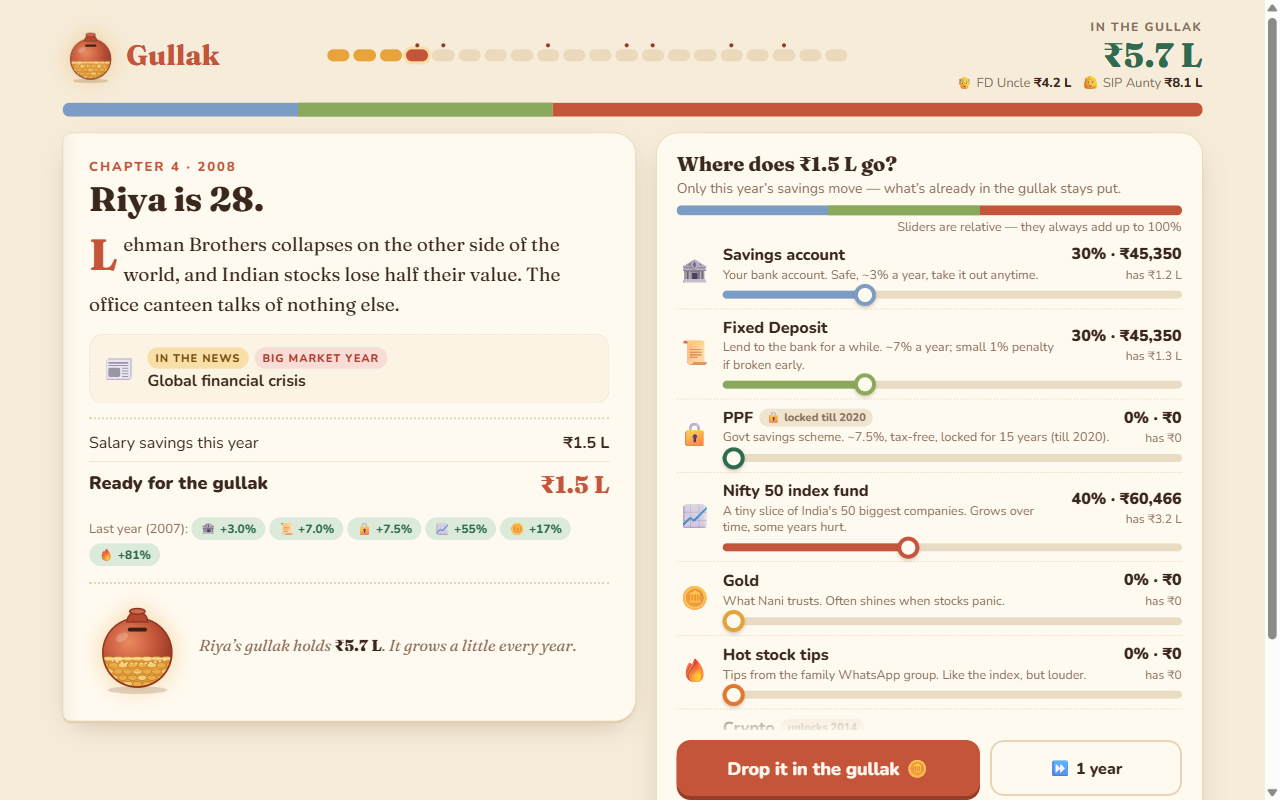
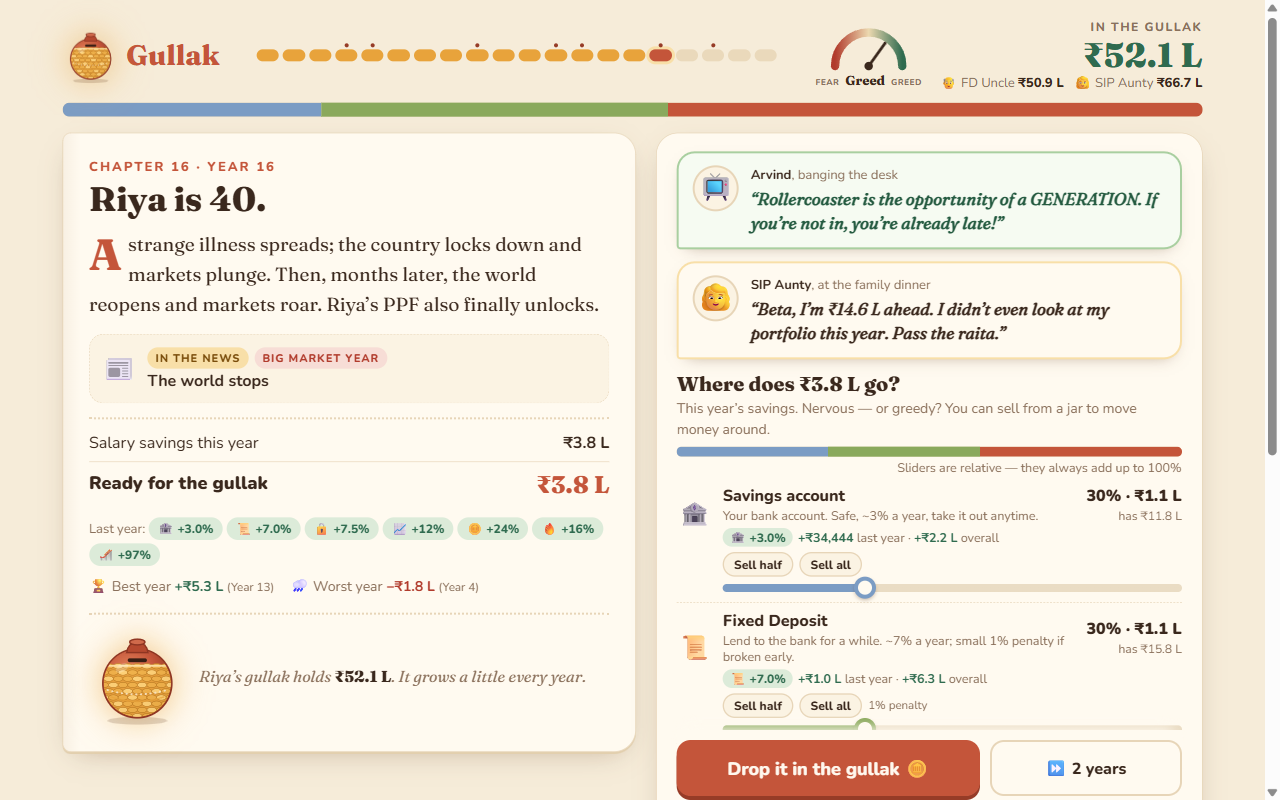
Gullak: storybook game with hidden years, selling, fear/greed cast, takeaways

diff --git a/gullak/ui.js b/gullak/ui.js
@@ -43,6 +43,7 @@
       <rect x="80" y="66" width="40" height="8" rx="4" fill="#3a1f14"/>
       <ellipse class="slotcoin" cx="100" cy="62" rx="9" ry="3.5" fill="#f0b54a" stroke="#b77a1e" opacity="0"/>
       <ellipse cx="68" cy="86" rx="14" ry="8" fill="#fff" opacity=".22" transform="rotate(-30 68 86)"/>
+      <path class="crackline" d="M104 76 L112 98 L94 118 L114 140 L96 162 L104 188" fill="none" stroke="#2a120a" stroke-width="3.5" stroke-linejoin="round" stroke-linecap="round"/>
     </svg>`;
   }
   function mountPot(el, nw) { el.classList.add('pot'); el.innerHTML = potSVG(level(nw)); glow(el, nw); }
@@ -97,16 +98,84 @@
 
   function renderTop() {
     const nw = G.netWorth();
-    $('beads').innerHTML = G.sched.map((s, i) => `<i class="${i < G.round ? 'done' : i === G.round ? 'cur' : ''} ${s.event ? 'ev' : ''}" title="${s.y}"></i>`).join('');
+    $('beads').innerHTML = G.sched.map((s, i) => `<i class="${i < G.round ? 'done' : i === G.round ? 'cur' : ''} ${s.event ? 'ev' : ''}" title="Year ${i + 1}"></i>`).join('');
     const el = $('nw');
     if (shownNW !== nw.me) { countUp(el, shownNW, nw.me, 700); shownNW = nw.me; } else { el.textContent = inr(nw.me); el.classList.toggle('neg', nw.me < 0); }
     $('rivals').innerHTML = `<span>👴 FD Uncle <b>${inr(nw.fd)}</b></span><span>👩 SIP Aunty <b>${inr(nw.sip)}</b></span>`;
     setPot($('miniPot'), nw.me);
+    renderGauge();
     const p = G.me, tot = KEYS.reduce((a, k) => a + p.h[k], 0) + p.debt;
     let bars = ASSETS.filter(a => p.h[a.k] > 0.5).map(a => `<div style="flex-grow:${p.h[a.k] / tot};background:${a.c}" title="${a.n}: ${inr(p.h[a.k])}"></div>`).join('');
     if (p.debt > 0.5) bars += `<div style="flex-grow:${p.debt / tot};background:repeating-linear-gradient(45deg,#b13b2c 0 6px,#d9604f 6px 12px)" title="Credit-card debt: ${inr(p.debt)}"></div>`;
     $('inside').innerHTML = bars;
     $('inside').title = 'What’s inside the gullak';
+  }
+
+  const signed = v => (v < 0 ? '−' : '+') + inr(Math.abs(v));
+  const marketGain = h => KEYS.reduce((a, k) => a + h.pnl[k], 0) - h.interest;
+  function records() {
+    let best = null, worst = null;
+    for (const h of G.history) { const g = marketGain(h); if (!best || g > best.g) best = { g, h }; if (!worst || g < worst.g) worst = { g, h }; }
+    return { best, worst };
+  }
+  // Fear <-> greed: flavour only, driven by last year's index and Rollercoaster returns
+  function mood() {
+    const last = G && G.history[G.history.length - 1];
+    if (!last) return 0;
+    return Math.tanh(1.8 * last.ret.nifty + 0.25 * last.ret.crypto + 0.5 * (last.ret.hot - last.ret.nifty));
+  }
+  function renderGauge() {
+    const m = mood(), ang = m * 80, word = m < -0.5 ? 'Panic' : m < -0.15 ? 'Fear' : m > 0.5 ? 'Mania' : m > 0.15 ? 'Greed' : 'Calm';
+    $('gauge').innerHTML = `<svg viewBox="0 0 120 70" aria-hidden="true">
+      <defs><linearGradient id="gg" x1="0" x2="1"><stop offset="0" stop-color="#b13b2c"/><stop offset=".5" stop-color="#ecd9b0"/><stop offset="1" stop-color="#2f6b4f"/></linearGradient></defs>
+      <path d="M12 62 A48 48 0 0 1 108 62" fill="none" stroke="url(#gg)" stroke-width="12" stroke-linecap="round"/>
+      <g class="needle" style="transform:rotate(${ang}deg)"><line x1="60" y1="62" x2="60" y2="22" stroke="#3a281d" stroke-width="4" stroke-linecap="round"/></g>
+      <circle cx="60" cy="62" r="6" fill="#3a281d"/></svg><div class="gw"><small>Fear</small><b>${word}</b><small>Greed</small></div>`;
+    $('gauge').title = 'The family mood after last year — fear or greed. Just for fun.';
+  }
+
+  // ---------- The cast: dramatic voices, sometimes right, often wrong ----------
+  const CAST = {
+    sharma: { e: '🧔', n: 'Sharma-ji', c: 'senior colleague, 15 years in the market' },
+    arvind: { e: '📺', n: 'Arvind', c: 'TV market expert, loud tie' },
+    kavya: { e: '💼', n: 'Kavya', c: 'batchmate, quit her job to “trade full-time”' },
+    uncle: { e: '📱', n: 'WhatsApp uncle', c: 'family group admin' },
+    sip: { e: '👩', n: 'SIP Aunty', c: 'at the family dinner' },
+    fd: { e: '👴', n: 'FD Uncle', c: 'at the family dinner' },
+  };
+  const FEAR = [
+    ['sharma', 'I’ve seen this before. Dot-com bust all over again. I sold everything at 9:15 this morning. If you’re still holding by Friday… don’t say I didn’t warn you.', 'lowering his voice'],
+    ['arvind', 'This is NOT a dip. This is the beginning of a decade-long winter. Cash is king!', 'sleeves rolled up'],
+    ['sharma', 'My CA called me personally. He’s moving everything to gold. Everything.', 'lowering his voice'],
+    ['kavya', 'I’ve gone 100% cash. {asset} down {pct}? It’s going to zero. Get out while there’s something left.', 'from her trading desk at home'],
+    ['uncle', 'URGENT!!! Forward to all family. Experts say it will fall another 50%. SELL and keep cash at home!!! 🙏🙏', 'forwarded many times'],
+  ];
+  const GREED = [
+    ['kavya', 'I made more in three weeks on {asset} than my entire annual bonus. I’m buying a flat. Cash. Are you seriously still in FDs?', 'showing you her phone'],
+    ['sharma', '{asset} is up {pct}. Even my driver is in. You know what they say: the train is leaving the station.', 'tapping his Bloomberg screen'],
+    ['uncle', '100% sure-shot. My friend’s brother-in-law is on the board. Last chance before it doubles!!! 🚀🚀🚀', 'forwarded many times'],
+    ['arvind', '{asset} is the opportunity of a GENERATION. If you’re not in, you’re already late!', 'banging the desk'],
+  ];
+  function quote(who, line, how, vars) {
+    const c = CAST[who];
+    for (const k in vars || {}) line = line.split('{' + k + '}').join(vars[k]);
+    return { e: c.e, n: c.n, c: how || c.c, t: line, mood: '' };
+  }
+  function voices() {
+    const last = G.history[G.history.length - 1]; if (!last) return [];
+    const out = [], tot = KEYS.reduce((a, k) => a + G.me.h[k], 0) || 1, r = last.r, spin = r + (G.seed % 7);
+    const falling = ASSETS.filter(a => enabled(a.k, r) && last.ret[a.k] <= -0.15 && (G.me.h[a.k] > 1000 || a.k === 'nifty')).sort((a, b) => last.ret[a.k] - last.ret[b.k])[0];
+    if (falling) { const q = FEAR[spin % FEAR.length]; out.push(Object.assign(quote(q[0], q[1], q[2], { asset: A(falling.k).n, pct: Math.round(-last.ret[falling.k] * 100) + '%' }), { mood: 'fear' })); }
+    const hot = ASSETS.filter(a => enabled(a.k, r) && last.ret[a.k] >= 0.4 && G.me.h[a.k] / tot < 0.1).sort((a, b) => last.ret[b.k] - last.ret[a.k])[0];
+    if (hot) { const q = GREED[spin % GREED.length]; out.push(Object.assign(quote(q[0], q[1], q[2], { asset: A(hot.k).n, pct: Math.round(last.ret[hot.k] * 100) + '%' }), { mood: 'greed' })); }
+    const nw = G.netWorth(), gap = nw.sip - nw.me, fgap = nw.fd - nw.me;
+    if (gap > Math.max(20000, nw.me * 0.08)) out.push(Object.assign(quote('sip', `Beta, I’m ${inr(gap)} ahead. I didn’t even look at my portfolio this year. Pass the raita.`), { mood: 'taunt' }));
+    else if (fgap > 20000) out.push(Object.assign(quote('fd', `Seven percent, guaranteed. I’m ${inr(fgap)} ahead of you and I sleep like a baby. Sleep is also a return, beta.`), { mood: 'taunt' }));
+    else if (nw.me > nw.sip && nw.me > nw.fd && G.round > 2) out.push(Object.assign(quote('fd', 'So… very casually… what exactly have you been investing in?', 'suddenly very interested'), { mood: 'taunt' }));
+    return out.slice(0, 2);
+  }
+  function quoteCards() {
+    return voices().map((q, i) => `<figure class="quote ${q.mood}" style="animation-delay:${0.15 + i * 0.25}s"><div class="qav">${q.e}</div><div><figcaption><b>${esc(q.n)}</b>, <span>${esc(q.c)}</span></figcaption><blockquote>“${esc(q.t)}”</blockquote></div></figure>`).join('');
   }
 
   function renderPage() {
@@ -129,9 +198,12 @@
       h += safeOnly ? `<p>Good thing there was a cushion — Savings and FD took the hit, so ${esc(NAME)} didn’t have to sell investments in a hurry.</p></div>`
         : `<p>Without enough cushion in Savings or FD, ${esc(NAME)} had to sell investments — whatever the market was doing.</p></div>`;
     }
+    for (const x of l.sells) h += `<div class="line"><span>You sold ${A(x.k).i} ${A(x.k).n}</span><b class="pos">+${inr(x.proceeds)}${x.pen ? ` <small>(−${inr(x.pen)} penalty)</small>` : ''}</b></div>`;
     h += `<div class="line total"><span>Ready for the gullak</span><span>${inr(G.me.cash)}</span></div></div>`;
     const last = G.history[G.history.length - 1];
-    if (last) h += `<div class="lastyr">Last year (${last.y}): ` + ASSETS.filter(a => enabled(a.k, last.r)).map(a => retChip(a.k, last.ret[a.k])).join('') + `</div>`;
+    if (last) h += `<div class="lastyr">Last year: ` + ASSETS.filter(a => enabled(a.k, last.r)).map(a => retChip(a.k, last.ret[a.k])).join('') + `</div>`;
+    const rec = records();
+    if (rec.best && G.history.length > 1) h += `<div class="records"><span>🏆 Best year <b class="pos">${signed(rec.best.g)}</b> <small>(Year ${rec.best.h.r + 1})</small></span><span>🌧 Worst year <b class="${rec.worst.g < 0 ? 'negc' : 'pos'}">${signed(rec.worst.g)}</b> <small>(Year ${rec.worst.h.r + 1})</small></span></div>`;
     const nwm = G.netWorth().me;
     h += `<div class="shelf"><div id="shelfPot"></div><p>${esc(NAME)}’s gullak holds <b>${inr(nwm)}</b>${G.me.debt > 0.5 ? ` — and a credit-card bill of <b class="negc">${inr(G.me.debt)}</b>` : ''}. ${G.round === 0 ? 'Empty for now. Let’s fill it.' : nwm > G.netWorth().sip ? 'Heavier than SIP Aunty’s!' : 'It grows a little every year.'}</p></div>`;
     $('page').innerHTML = h;
@@ -144,25 +216,29 @@
   function renderJars() {
     const s = G.current(), r = G.round, cash = G.me.cash, ffN = G.ffYears();
     const ffBtn = `<button class="btn ghost" id="ffBtn" ${ffN ? '' : 'disabled'}>${ffN ? `⏩ ${ffN} year${ffN > 1 ? 's' : ''}` : '⏩ Last page'}</button>`;
-    const ffNote = ffN ? `Fast-forward keeps this mix${ffN < 5 && r + ffN < R - 1 ? ` · stops before ${G.sched[r + ffN].y}` : ''}.` : 'No skipping the final year.';
+    const ffNote = ffN ? `Fast-forward keeps this mix and never sells${ffN < 5 && r + ffN < R - 1 ? ` · stops before Year ${r + ffN + 1}` : ''}.` : 'No skipping the final year.';
     if (cash < 1) {
       $('jars').className = 'jars';
-      $('jars').innerHTML = `<div class="waits"><div id="waitPot"></div><h3>${G.me.log.income ? 'Nothing left to save this year' : 'No salary this year — the gullak waits.'}</h3>
+      $('jars').innerHTML = quoteCards() + `<div class="waits"><div id="waitPot"></div><h3>${G.me.log.income ? 'Nothing left to save this year' : 'No salary this year — the gullak waits.'}</h3>
         <p>${G.me.log.income ? 'Life took it all. The gullak sits quietly on the shelf.' : `${esc(NAME)} keeps the lights on and the pot keeps its coins. Better years are coming.`}</p></div>
         <div class="actions"><button class="btn primary" id="goBtn">Turn the page →</button>${ffBtn}</div><div class="ffnote">${ffNote}</div>`;
       mountPot($('waitPot'), G.netWorth().me);
     } else {
       const first = r === 0;
       $('jars').className = 'jars' + (first ? ' coach' : '');
-      $('jars').innerHTML = (first ? `<div class="coachtip">👉 Slide to split this year’s ${inr(cash)} between the jars. Then drop it in the gullak!</div>` : '') +
-        `<h3>Where does ${inr(cash)} go?</h3><p class="sub">Only this year’s savings move — what’s already in the gullak stays put.</p>` +
+      $('jars').innerHTML = quoteCards() + (first ? `<div class="coachtip">👉 Slide to split this year’s ${inr(cash)} between the jars. Then drop it in the gullak!</div>` : '') +
+        `<h3>Where does ${inr(cash)} go?</h3><p class="sub">This year’s savings${G.me.log.sells.length ? ' plus what you sold' : ''}. Nervous — or greedy? You can sell from a jar to move money around.</p>` +
         `<div class="mixbar" id="mixbar"></div><div class="sumhint" id="sumhint"></div>` +
         ASSETS.map(a => {
-          const on = enabled(a.k, r);
-          const lock = !on ? `<span class="lock">unlocks 2014</span>` : a.k === 'ppf' ? `<span class="lock">${r >= PPF_R ? '🔓 unlocked' : '🔒 locked till 2020'}</span>` : '';
+          const on = enabled(a.k, r), hold = G.me.h[a.k], last = G.history[G.history.length - 1];
+          const lock = !on ? `<span class="lock">unlocks Year 10</span>` : a.k === 'ppf' ? `<span class="lock">${r >= PPF_R ? '🔓 unlocked' : '🔒 locked till Year 16'}</span>` : '';
+          const overall = hold - G.me.contrib[a.k];
+          const perf = hold > 0.5 && last && enabled(a.k, last.r) ? `<div class="perf">${retChip(a.k, last.ret[a.k])} <b class="${last.pnl[a.k] < 0 ? 'negc' : 'pos'}">${signed(last.pnl[a.k])}</b> last year · <b class="${overall < 0 ? 'negc' : 'pos'}">${signed(overall)}</b> overall</div>` : '';
+          const sell = hold > 0.5 ? (G.canSell(a.k) ? `<div class="sells"><button class="sellbtn" data-sell="${a.k}" data-f="0.5">Sell half</button><button class="sellbtn" data-sell="${a.k}" data-f="1">Sell all</button>${a.k === 'fd' ? '<small>1% penalty</small>' : ''}</div>` : `<div class="sells"><small>🔒 can’t sell yet</small></div>`) : '';
           return `<div class="asset ${on ? '' : 'off'}" style="--c:${a.c}"><div class="ico">${a.i}</div>
             <div><div class="nm" title="${esc(a.f)}">${a.n} ${lock}</div><div class="why">${esc(a.f)}</div></div>
-            <div><div class="amt" id="amt-${a.k}">—</div><div class="hold">has ${inr(G.me.h[a.k])}</div></div>
+            <div><div class="amt" id="amt-${a.k}">—</div><div class="hold">has ${inr(hold)}</div></div>
+            ${perf}${sell}
             <input type="range" min="0" max="100" step="5" value="${on ? G.alloc[a.k] || 0 : 0}" style="--p:${on ? G.alloc[a.k] || 0 : 0}%" data-k="${a.k}" ${on ? '' : 'disabled'} aria-label="${a.n} share"></div>`;
         }).join('') +
         `<div class="actions"><button class="btn primary" id="goBtn">Drop it in the gullak 🪙</button>${ffBtn}</div><div class="ffnote">${ffNote}</div>`;
@@ -171,6 +247,11 @@
       });
       updateAmts();
     }
+    $('jars').querySelectorAll('[data-sell]').forEach(b => b.onclick = () => {
+      const x = G.sell(b.dataset.sell, +b.dataset.f); if (!x) return;
+      tone([660, 520], 0.08, 'triangle');
+      const y = window.scrollY; renderTop(); renderPage(); renderJars(); window.scrollTo(0, y);
+    });
     $('goBtn').onclick = () => invest();
     $('ffBtn').onclick = () => fastForward();
   }
@@ -201,20 +282,35 @@
   }
 
   function showReveal(rec) {
-    const up = rec.nwAfter - rec.nwBefore;
-    const held = ASSETS.filter(a => enabled(a.k, rec.r) && (G.me.h[a.k] > 0.5 || rec.shares[a.k] > 0));
-    $('sheet').innerHTML = `<div class="kicker">The end of ${rec.y}</div><h2>${esc(NAME)}’s gullak, a year older</h2>
-      <div class="reveal-top"><div id="revPot"></div><div><div class="bignum" id="revNum">${inr(rec.nwBefore)}</div>
-      <div class="delta ${up < 0 ? 'negc' : 'pos'}">${up < 0 ? '−' : '+'}${inr(Math.abs(up))} this year</div></div></div>
-      <div class="chips">${(held.length ? held : ASSETS.filter(a => enabled(a.k, rec.r))).map((a, i) => `<span class="chip ${rec.ret[a.k] > 0.001 ? 'up' : rec.ret[a.k] < -0.001 ? 'dn' : 'flat'}" style="animation-delay:${0.35 + i * 0.12}s">${a.i} ${a.n} ${pct(rec.ret[a.k])}</span>`).join('')}</div>
+    const up = rec.nwAfter - rec.nwBefore, gain = marketGain(rec), r = records();
+    const isBest = r.best && r.best.h === rec && G.history.length > 1 && gain > 0, isWorst = r.worst && r.worst.h === rec && G.history.length > 1 && gain < 0;
+    const held = ASSETS.filter(a => enabled(a.k, rec.r) && (Math.abs(rec.pnl[a.k]) > 0.5 || rec.shares[a.k] > 0));
+    const rows = held.map((a, i) => {
+      const overall = G.me.h[a.k] - G.me.contrib[a.k];
+      return `<div class="rrow" style="animation-delay:${0.45 + i * 0.12}s"><span>${a.i} ${a.n}</span>${retChip(a.k, rec.ret[a.k])}<b class="${rec.pnl[a.k] < 0 ? 'negc' : 'pos'}">${signed(rec.pnl[a.k])}</b><small>${signed(overall)} overall</small></div>`;
+    }).join('');
+    $('sheet').className = 'sheet ' + (gain < 0 ? 'loss' : 'win');
+    $('sheet').innerHTML = `<div class="kicker">The end of Year ${rec.r + 1}</div>
+      <div class="headline ${gain < 0 ? 'negc' : 'pos'}">${signed(gain)} this year ${gain < 0 ? '😱' : '🎉'}</div>
+      <div class="subhead">${gain < 0 ? 'The markets took a bite out of the gullak.' : 'The markets were kind to the gullak.'}${isBest ? ' <span class="tag big" style="background:#dcebd9;color:#2f6b4f">New best year!</span>' : ''}${isWorst ? ' <span class="tag big">New worst year</span>' : ''}</div>
+      <div class="reveal-top"><div id="revPot"></div><div><small>In the gullak now</small><div class="bignum" id="revNum">${inr(rec.nwBefore)}</div>
+      <div class="delta">${signed(up)} since last year, after adding ${inr(rec.invested)}</div></div></div>
+      <div class="rtable">${rows || '<p class="sub">Nothing invested yet.</p>'}</div>
       ${rec.interest > 1 ? `<div class="forced" style="margin-top:0"><b>💳 Credit-card interest: −${inr(rec.interest)}</b></div>` : ''}
       <div class="rivalline">👴 FD Uncle ${inr(rec.fdAfter)} · 👩 SIP Aunty ${inr(rec.sipAfter)}</div>
       <button class="btn primary" id="contBtn">${G.done ? 'Break the gullak 🔨' : `Turn to chapter ${rec.r + 2} →`}</button>`;
     $('modal').hidden = false;
     mountPot($('revPot'), rec.nwBefore);
+    if (gain < 0) { sad(); document.body.classList.remove('ouch'); void document.body.offsetWidth; document.body.classList.add('ouch'); setTimeout(() => $('revPot').classList.add('cracked'), 300); }
+    else { coinShower($('sheet'), Math.min(28, 8 + Math.round(Math.log10(1 + gain / 10000) * 6))); }
     setTimeout(() => { setPot($('revPot'), rec.nwAfter, true); countUp($('revNum'), rec.nwBefore, rec.nwAfter, 1100); }, 250);
     $('contBtn').onclick = () => afterTurn(false);
     $('contBtn').focus({ preventScroll: true });
+  }
+  function coinShower(host, n) {
+    const box = document.createElement('div'); box.className = 'shower';
+    box.innerHTML = Array.from({ length: n }, (_, i) => `<i style="left:${(Math.random() * 96).toFixed(1)}%;--d:${(Math.random() * 0.6).toFixed(2)}s;--t:${(0.9 + Math.random() * 0.7).toFixed(2)}s"></i>`).join('');
+    host.appendChild(box); setTimeout(() => box.remove(), 2600);
   }
 
   function fastForward(quiet) {
@@ -222,17 +318,18 @@
     const recs = G.ff(Object.assign({}, G.alloc));
     if (quiet) { afterTurn(true); return recs; }
     busy = true; clink();
+    $('sheet').className = 'sheet';
     const a = recs[0], b = recs[recs.length - 1], up = b.nwAfter - a.nwBefore, nxt = G.current();
-    $('sheet').innerHTML = `<div class="kicker">Fast-forward · ${a.y}${recs.length > 1 ? '–' + b.y : ''}</div>
+    $('sheet').innerHTML = `<div class="kicker">Fast-forward · Year ${a.r + 1}${recs.length > 1 ? '–' + (b.r + 1) : ''}</div>
       <h2>${recs.length > 1 ? `${recs.length} years fly by.` : 'A year flies by.'} ${esc(NAME)} is now ${nxt.age}.</h2>
-      ${nxt.event ? `<div class="stopnote">⏸ Stopping here — something big is about to happen in <b>${nxt.y}</b>.</div>` : ''}
+      ${nxt.event ? `<div class="stopnote">⏸ Stopping here — something big is about to happen. Better be at the wheel for this one.</div>` : ''}
       <ul class="recap">${recs.map(r => {
-        const d = r.nwAfter - r.nwBefore, f = r.log.sales.length || r.log.newDebt;
-        return `<li><span class="yr">${r.y}</span><span>${esc(r.news[0])}</span><span class="d ${d < 0 ? 'negc' : 'pos'}">${d < 0 ? '−' : '+'}${inr(Math.abs(d))}</span>
+        const d = marketGain(r), f = r.log.sales.length || r.log.newDebt;
+        return `<li><span class="yr">Y${r.r + 1}</span><span>${esc(r.news[0])}</span><span class="d ${d < 0 ? 'negc' : 'pos'}">${d < 0 ? '−' : '+'}${inr(Math.abs(d))}</span>
           <span class="ev">${r.life ? `${r.life.e} ${esc(r.life.t)}` : 'A quiet year at home.'}${f ? ' · <b class="negc">🚨 forced sale</b>' : ''}</span></li>`;
       }).join('')}</ul>
       <div class="reveal-top"><div id="revPot"></div><div><small>In the gullak</small><div class="bignum" id="revNum">${inr(a.nwBefore)}</div>
-      <div class="delta ${up < 0 ? 'negc' : 'pos'}">${up < 0 ? '−' : '+'}${inr(Math.abs(up))} over ${recs.length} year${recs.length > 1 ? 's' : ''}</div></div></div>
+      <div class="delta ${up < 0 ? 'negc' : 'pos'}">${signed(up)} over ${recs.length} year${recs.length > 1 ? 's' : ''} (with savings)</div></div></div>
       <div class="rivalline">👴 FD Uncle ${inr(b.fdAfter)} · 👩 SIP Aunty ${inr(b.sipAfter)}</div>
       <button class="btn primary" id="contBtn">Read chapter ${nxt.r + 1} →</button>`;
     $('modal').hidden = false;
@@ -261,6 +358,8 @@
     const res = [{ n: NAME, e: '😊', v: nw.me, me: 1 }, { n: 'FD Uncle', e: '👴', v: nw.fd }, { n: 'SIP Aunty', e: '👩', v: nw.sip }].sort((a, b) => b.v - a.v);
     const rank = res.findIndex(x => x.me) + 1;
     $('endTitle').textContent = `${NAME} is 45. Time to break the gullak.`;
+    $('yearsReveal').innerHTML = `<b>Surprise: you just lived through 2005–2024 🇮🇳</b> — real Indian market history. The Rollercoaster was <b>Bitcoin</b>.` +
+      `<ul>${G.sched.filter(s => s.event || s.y === 2014).map(s => `<li><span>Year ${s.r + 1} = ${s.y}</span> ${esc(s.news[2])}</li>`).join('')}</ul>`;
     $('verdict').textContent = rank === 1 ? `Out spills ${inr(nw.me)} — more than FD Uncle and SIP Aunty. The family WhatsApp group is speechless.`
       : rank === 2 ? `Out spills ${inr(nw.me)}. One relative beaten, one to go — Diwali dinner will be lively.`
       : `Out spills ${inr(nw.me)}. Even FD Uncle did better… he will mention this at every family dinner.`;

diff --git a/gullak/style.css b/gullak/style.css
@@ -226,3 +226,64 @@ body{margin:0;min-height:100vh;color:var(--ink);font:16px/1.5 var(--sans);
 .shelf p{margin:0;font:italic 16px/1.45 var(--serif);color:var(--mut)}
 .shelf b{font-style:normal;color:var(--ink)}
 .title{min-height:calc(100vh - 50px)}
+
+/* ---------- Fear / greed, quotes, P&L ---------- */
+.top{grid-template-columns:auto 1fr auto auto}
+.gauge{display:flex;flex-direction:column;align-items:center;width:110px}
+.gauge svg{width:84px;display:block}
+.gauge .needle{transform-origin:60px 62px;transition:transform 1.2s cubic-bezier(.3,1.6,.5,1)}
+.gauge .gw{display:flex;gap:6px;align-items:baseline;font-size:10px;color:var(--mut);text-transform:uppercase;letter-spacing:.5px;font-weight:800}
+.gauge .gw b{font:800 13px var(--serif);color:var(--ink);text-transform:none;letter-spacing:0}
+.quote{margin:0 0 12px;display:flex;gap:12px;align-items:flex-start;background:#fff;border:2px solid var(--line);border-radius:18px 18px 18px 4px;padding:12px 14px;box-shadow:0 6px 16px -10px rgba(90,50,20,.5);opacity:0;transform:translateY(10px) scale(.97);animation:pop .45s cubic-bezier(.2,1.4,.5,1) forwards}
+@keyframes pop{to{opacity:1;transform:none}}
+.quote.fear{border-color:#e4a497;background:#fff6f3}
+.quote.greed{border-color:#a9cfa0;background:#f6fbf2}
+.quote.taunt{border-color:var(--mari-l);background:#fffaf0}
+.qav{font-size:28px;width:46px;height:46px;flex:none;border-radius:50%;display:grid;place-items:center;background:var(--paper3);border:2px solid var(--line)}
+.quote figcaption{font-size:13px;color:var(--mut)}
+.quote figcaption b{color:var(--ink)}
+.quote blockquote{margin:3px 0 0;font:italic 600 17px/1.4 var(--serif);color:var(--ink)}
+.quote.fear blockquote{color:#7d2a1e}
+.quote.greed blockquote{color:#245a40}
+.perf{grid-column:2/4;font-size:12.5px;color:var(--mut);margin-top:3px}
+.perf .chip{margin:0 2px 0 0;padding:1px 7px}
+.sells{grid-column:2/4;display:flex;gap:6px;align-items:center;margin-top:5px}
+.sellbtn{font:800 12px var(--sans);border:1.5px solid var(--line);background:var(--paper3);color:var(--ink);border-radius:99px;padding:3px 10px;cursor:pointer}
+.sellbtn:hover{border-color:var(--red);color:var(--red)}
+.sells small{color:var(--mut);font-size:11.5px}
+.records{display:flex;gap:6px 16px;flex-wrap:wrap;font-size:14px;margin-top:10px;color:var(--mut)}
+.records b{font-variant-numeric:tabular-nums}
+.headline{font:800 46px/1.05 var(--serif);margin:4px 0 2px;font-variant-numeric:tabular-nums;animation:thump .6s cubic-bezier(.2,1.6,.4,1)}
+@keyframes thump{from{transform:scale(.6);opacity:0}}
+.subhead{color:var(--mut);margin-bottom:10px}
+.sheet{position:relative;overflow-x:hidden}
+.sheet.loss{animation:rise .35s cubic-bezier(.2,1.3,.5,1),shake2 .5s .35s}
+@keyframes shake2{20%{transform:translateX(-8px)}40%{transform:translateX(7px)}60%{transform:translateX(-5px)}80%{transform:translateX(3px)}}
+.sheet.win{box-shadow:0 0 0 4px var(--mari-l),0 30px 60px -20px rgba(60,30,10,.6)}
+body.ouch::after{content:"";position:fixed;inset:0;pointer-events:none;z-index:30;box-shadow:inset 0 0 160px 40px rgba(177,59,44,.75);animation:ouch 1.1s forwards}
+@keyframes ouch{to{opacity:0}}
+.pot .crackline{opacity:0;stroke-dasharray:200;stroke-dashoffset:200;transition:opacity .1s,stroke-dashoffset .5s ease-out}
+.pot.cracked .crackline{opacity:1;stroke-dashoffset:0}
+.rtable{display:flex;flex-direction:column;gap:2px;margin:12px 0}
+.rrow{display:grid;grid-template-columns:1fr auto auto;gap:2px 10px;align-items:center;padding:5px 0;border-bottom:1px dashed var(--line);opacity:0;animation:chipin .35s forwards}
+.rrow b{font-variant-numeric:tabular-nums;text-align:right;font-size:17px}
+.rrow small{grid-column:1/-1;color:var(--mut);font-size:12px;margin-top:-2px}
+.shower{position:absolute;inset:0;pointer-events:none;overflow:hidden;border-radius:24px}
+.shower i{position:absolute;top:-30px;width:18px;height:18px;border-radius:50%;background:radial-gradient(circle at 35% 35%,#ffe9a6,#e8a33b 55%,#b9771c);box-shadow:inset 0 0 0 2px #c98a2a;animation:rain var(--t) var(--d) ease-in forwards}
+@keyframes rain{to{transform:translateY(720px) rotate(540deg)}}
+.yearsreveal{margin-top:12px;background:var(--paper2);border:1px solid var(--line);border-radius:16px;padding:10px 14px;font-size:15px;text-align:left}
+.yearsreveal ul{margin:6px 0 0;padding:0;list-style:none;display:grid;grid-template-columns:repeat(auto-fill,minmax(230px,1fr));gap:2px 14px;font-size:13.5px}
+.yearsreveal li span{font-weight:800;color:var(--terra)}
+@media (max-width:900px){.top{grid-template-columns:auto 1fr auto}.gauge{grid-row:1;grid-column:2;justify-self:center;width:90px}}
+@media (max-width:560px){.headline{font-size:34px}.quote blockquote{font-size:15.5px}.gauge svg{width:64px}.top{grid-template-columns:auto auto 1fr}.gauge{justify-self:start}}
+@media (max-width:560px){
+  .top{grid-template-columns:1fr auto;gap:6px 10px}
+  .brand{grid-row:1;grid-column:1}
+  .gauge{grid-row:1;grid-column:2;width:auto}
+  .worth{grid-row:2;grid-column:1/-1;text-align:left;display:flex;flex-wrap:wrap;align-items:baseline;gap:2px 10px}
+  .worth small{width:100%}
+  .rivals{justify-content:flex-start}
+  .beads{grid-row:3}
+  .actions .primary{flex:2 1 150px;font-size:16px;padding:13px 10px}
+  .actions .ghost{flex:1 1 90px;padding:12px 8px}
+}

diff --git a/gullak/index.html b/gullak/index.html
@@ -21,8 +21,8 @@
     <h1>Gullak</h1>
     <p class="tagline">A little story about one life, one clay pot, and twenty years of choices.</p>
     <ol class="howto">
-      <li><b>Every page is a year</b> of your life, 2005 to 2024 — age 25 to 45.</li>
-      <li><b>Split each year’s savings</b> between the jars with the sliders. Real market history happens.</li>
+      <li><b>Every page is a year</b> of your life, from 25 to 45. The markets follow real Indian history — but we won’t tell you which years.</li>
+      <li><b>Split each year’s savings</b> between the jars. Sell when you’re scared, buy when you’re greedy — if you dare.</li>
       <li><b>Life will surprise you.</b> Keep a cushion — and try to beat FD Uncle and SIP Aunty.</li>
     </ol>
     <form id="nameForm" class="nameform" autocomplete="off">
@@ -40,6 +40,7 @@
   <header class="top">
     <div class="brand"><span class="mini-pot" id="miniPot"></span><span class="logo">Gullak</span></div>
     <div class="beads" id="beads" aria-label="Progress"></div>
+    <div class="gauge" id="gauge"></div>
     <div class="worth">
       <small>In the gullak</small>
       <b id="nw">₹0</b>
@@ -58,9 +59,10 @@
   <div class="end-hero">
     <div class="breakstage" id="breakStage"></div>
     <div class="end-head">
-      <div class="kicker">The last page · 2024</div>
+      <div class="kicker">The last page · Year 20</div>
       <h2 id="endTitle">The gullak is full. Time to break it.</h2>
       <p class="verdict" id="verdict"></p>
+      <div class="yearsreveal" id="yearsReveal"></div>
     </div>
   </div>
   <div class="podium" id="podium"></div>
@@ -79,7 +81,7 @@
 <!-- Modal: reveal / recap -->
 <div class="modal" id="modal" hidden><div class="sheet" id="sheet" role="dialog" aria-modal="true"></div></div>
 
-<footer class="foot">Market numbers are approximate (Nifty 50 price returns, gold in INR, Bitcoin in INR). A storybook, not financial advice.</footer>
+<footer class="foot">Market numbers are approximate, based on real Indian market history. A storybook, not financial advice.</footer>
 
 <script src="game.js"></script>
 <script src="ui.js"></script>
